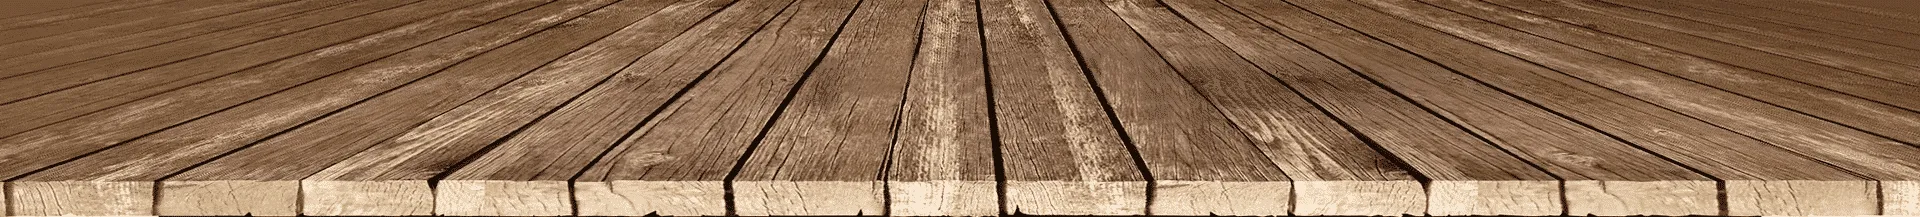
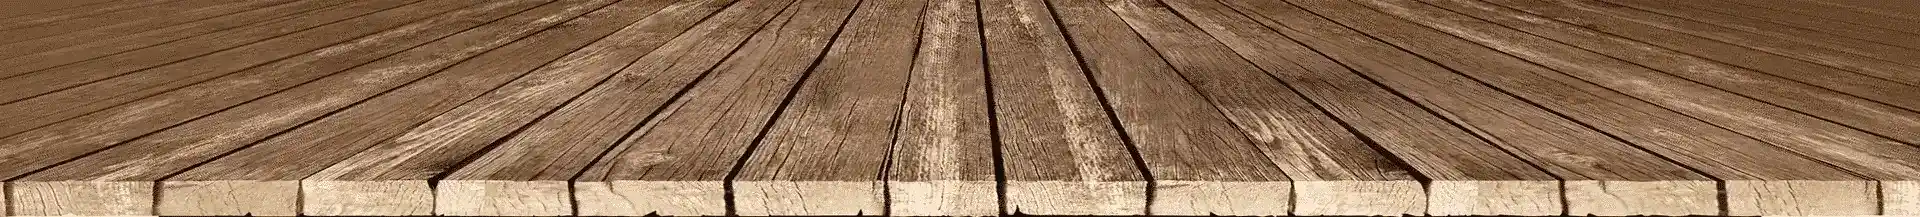
PageSpeed: LCP fetchPriority, steg→Next.js Image, Bildkomprimierung, Browserslist
- fetchPriority="high" auf Hero-Hintergrundbild (LCP-Fix)
- steg.webp: <picture> durch Next.js <Image> ersetzt (AVIF-Support)
- steg.webp komprimiert: 123KB → 72KB
- fotobox-rosenheim-muenchen.jpg: 216KB → 154KB (MozJPEG)
- .browserslistrc: Moderne Browser = weniger Polyfills (~13KB)

diff --git a/webseite/src/app/page.tsx b/webseite/src/app/page.tsx
@@ -85,7 +85,8 @@ export default async function HomePage() {
           sizes="100vw"
           className="object-cover object-center md:object-[center_20%]"
           priority
-          quality={80}
+          fetchPriority="high"
+          quality={75}
         />
 
         {/* Content container for fotobox + text */}
@@ -135,14 +136,15 @@ export default async function HomePage() {
 
         {/* Holzsteg at bottom */}
         <div className="absolute bottom-0 left-0 right-0 z-10">
-          <picture>
-            <source srcSet="/images/hero/steg.webp" type="image/webp" />
-            <img
-              src="/images/hero/steg.png"
-              alt=""
-              className="hero-steg"
-            />
-          </picture>
+          <Image
+            src="/images/hero/steg.webp"
+            alt=""
+            width={1920}
+            height={217}
+            className="hero-steg"
+            sizes="100vw"
+            quality={60}
+          />
         </div>
       </section>
 
